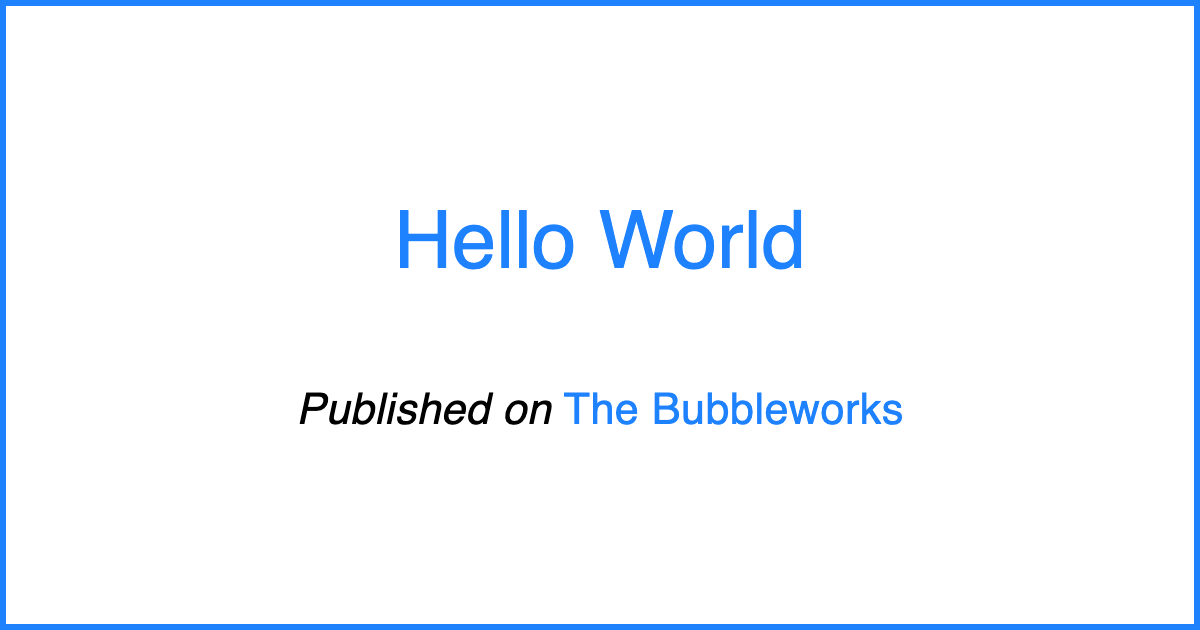
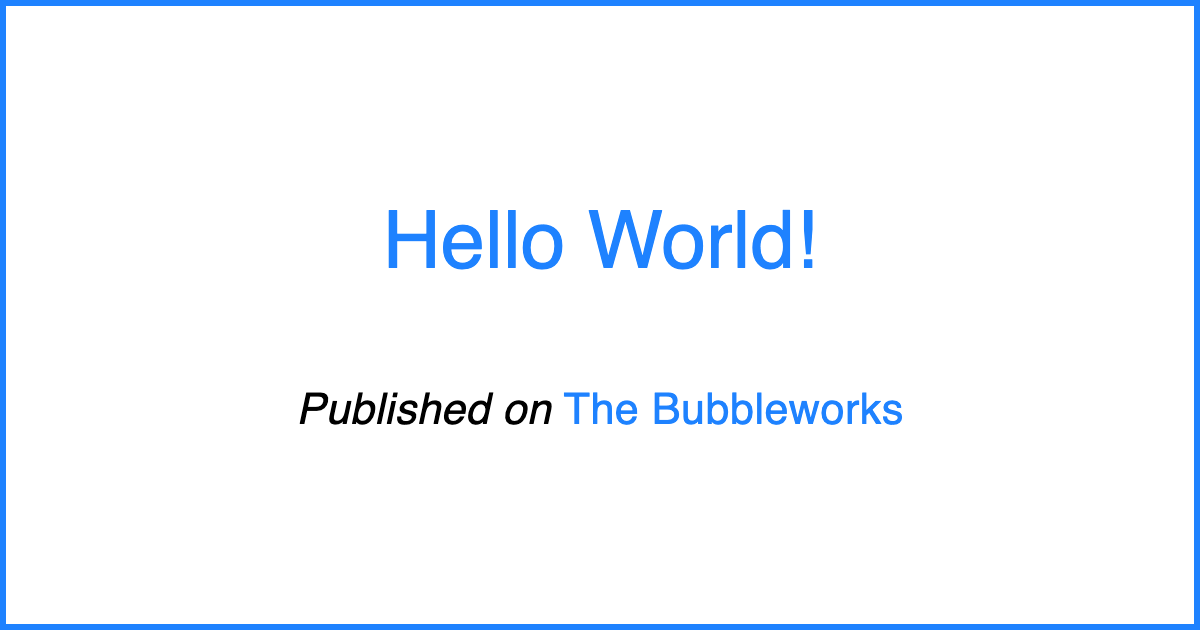
update

Changed region(s): [[0.3083, 0.3317, 0.6783, 0.4524]]

diff --git a/helloworld/index.html b/helloworld/index.html
@@ -4,7 +4,7 @@
     <!-- Generated from the 11ty Netlify Jumpstart: https://github.com/5t3ph/11ty-netlify-jumpstart -->
     <meta charset="UTF-8" />
     <meta name="viewport" content="width=device-width, initial-scale=1" />
-    <title>Hello World | The Bubbleworks</title>
+    <title>Hello World! | The Bubbleworks</title>
     <meta
       name="description"
       content="A demo of the &quot;Page&quot; template and kitchen sink sample of styled elements."
@@ -17,7 +17,7 @@
     
     <meta
       name="twitter:title"
-      content="Hello World"
+      content="Hello World!"
     />
     <meta
       name="twitter:description"
@@ -26,7 +26,7 @@
 
     <meta
       name="og:title"
-      content="Hello World"
+      content="Hello World!"
     />
     <meta
       name="og:description"
@@ -49,7 +49,7 @@
     <ul class="tdbc-sitenav__navlist tdbc-list-unstyled"><li>
         <a href="/about/">About</a>
       </li><li>
-        <a href="/helloworld/">Hello World</a>
+        <a href="/helloworld/">Hello World!</a>
       </li></ul>
   </div>
 </nav>
@@ -57,7 +57,7 @@
 
 <header class="tdbc-hero">
   <div class="tdbc-container">
-    <h1 class="tdbc-ink--primary tdbc-mb-none">Hello World</h1>
+    <h1 class="tdbc-ink--primary tdbc-mb-none">Hello World!</h1>
     <h2 class="tdbc-lead tdbc-content-maxlength tdbc-ink--gray tdbc-mt-md tdbc-mx-auto">
       A demo of the &quot;Page&quot; template and kitchen sink sample of styled elements.
     </h2>

diff --git a/index.html b/index.html
@@ -77,7 +77,7 @@
         </div>
       </li><li class="tdbc-card">
         <div class="tdbc-card__content">
-          <a href="/helloworld/" class="tdbc-card__title">Hello World</a>
+          <a href="/helloworld/" class="tdbc-card__title">Hello World!</a>
           <p>A demo of the &quot;Page&quot; template and kitchen sink sample of styled elements.</p>
         </div>
       </li></ul>

diff --git a/about/index.html b/about/index.html
@@ -49,7 +49,7 @@
     <ul class="tdbc-sitenav__navlist tdbc-list-unstyled"><li>
         <a href="/about/">About</a>
       </li><li>
-        <a href="/helloworld/">Hello World</a>
+        <a href="/helloworld/">Hello World!</a>
       </li></ul>
   </div>
 </nav>
